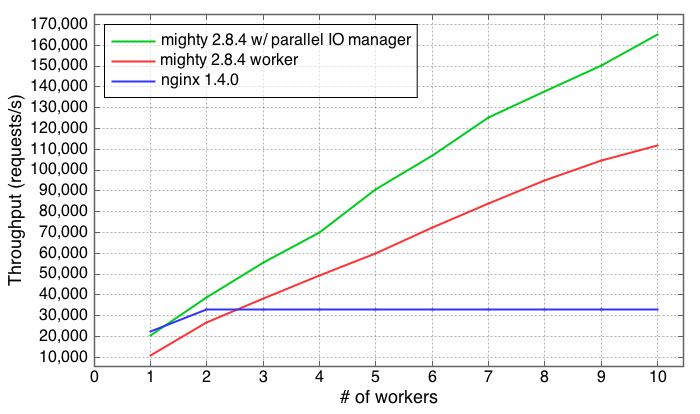
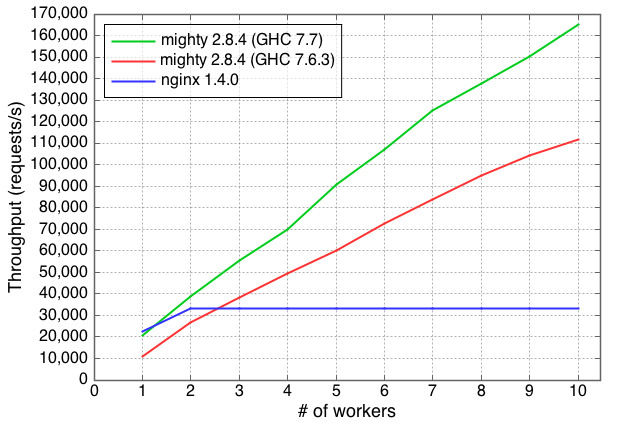
updating the benchmark graph.

diff --git a/warp.md b/warp.md
@@ -217,11 +217,12 @@ Here is the result:
 The x-axis is the number of workers and the y-axis gives throughput,
 measured in requests per second.
 
-- mighty 2.8.4 w/ parallel IO manager: compiled with GHC version 7.7.20130504 (to be GHC version 7.8).
-  It uses only one worker and the number of cores to be used was specified
-  by GHC runtime option(`+RTS -N<x>`).
+- mighty 2.8.4 (GHC 7.7): compiled with GHC version 7.7.20130504 (to be GHC version 7.8). 
+  It uses the parallel IO manager with only one worker.
+  GHC runtime option, `+RTS -qa -A128m -N<x>` is specified where
+  <x> is the number of cores and 128m is the allocation area size used by the garbage collector.
 
-- mighty 2.8.4 worker: compiled with GHC version 7.6.3 (which is the latest stable version).
+- mighty 2.8.4 (GHC 7.6.3): compiled with GHC version 7.6.3 (which is the latest stable version).
 
 ## Key ideas
 
